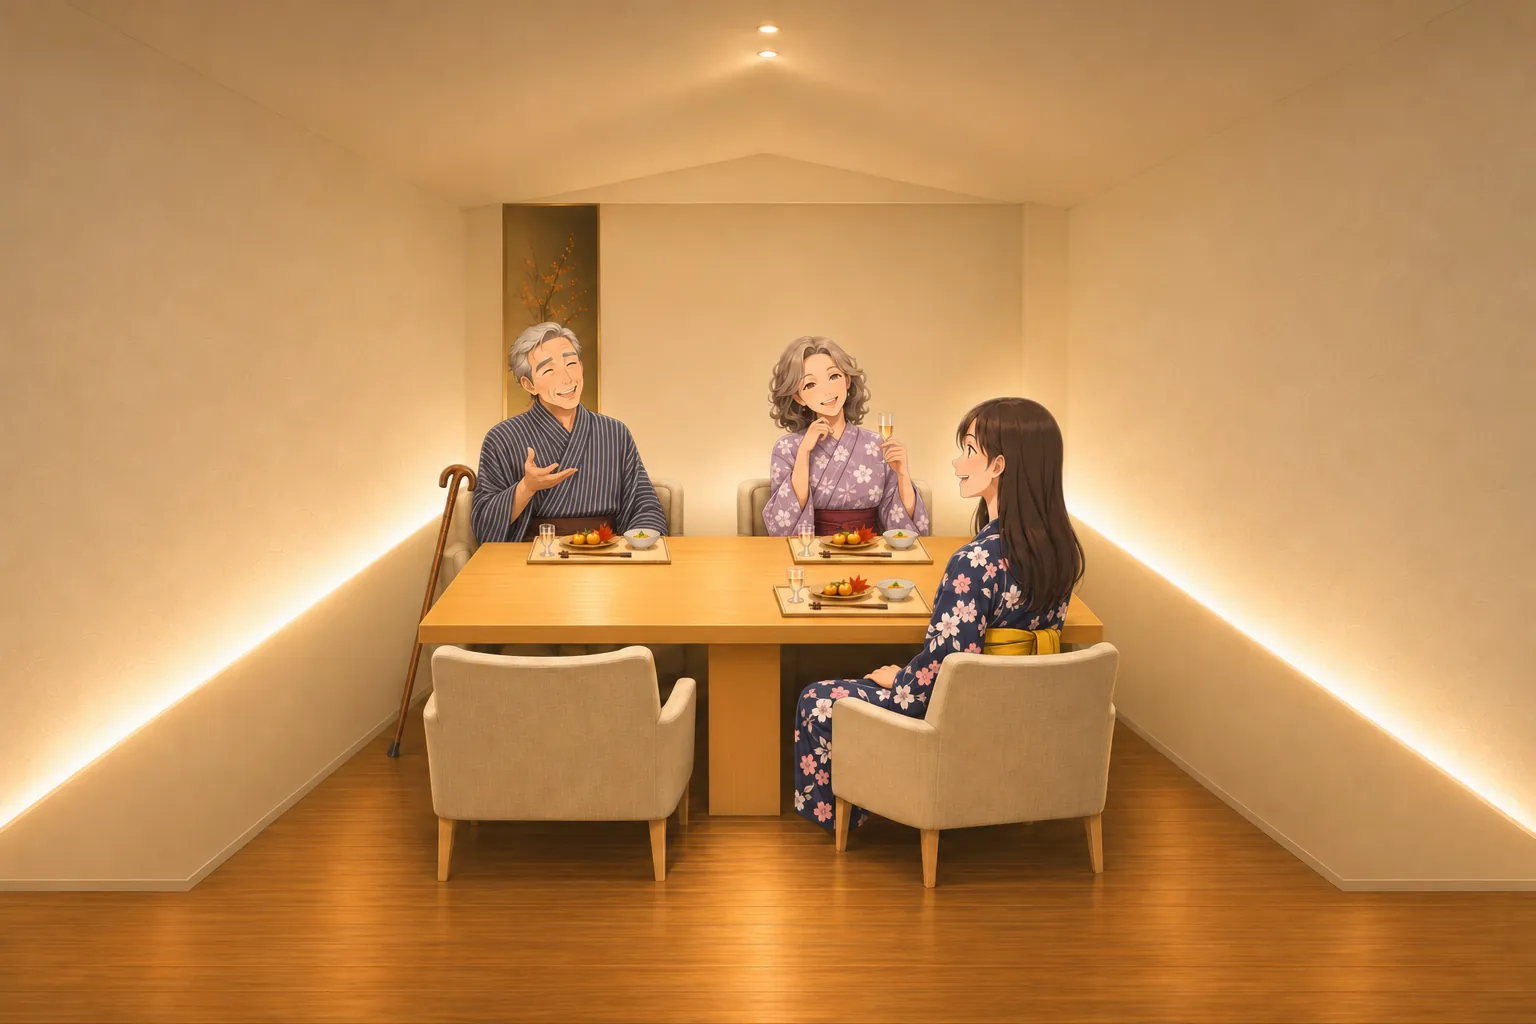
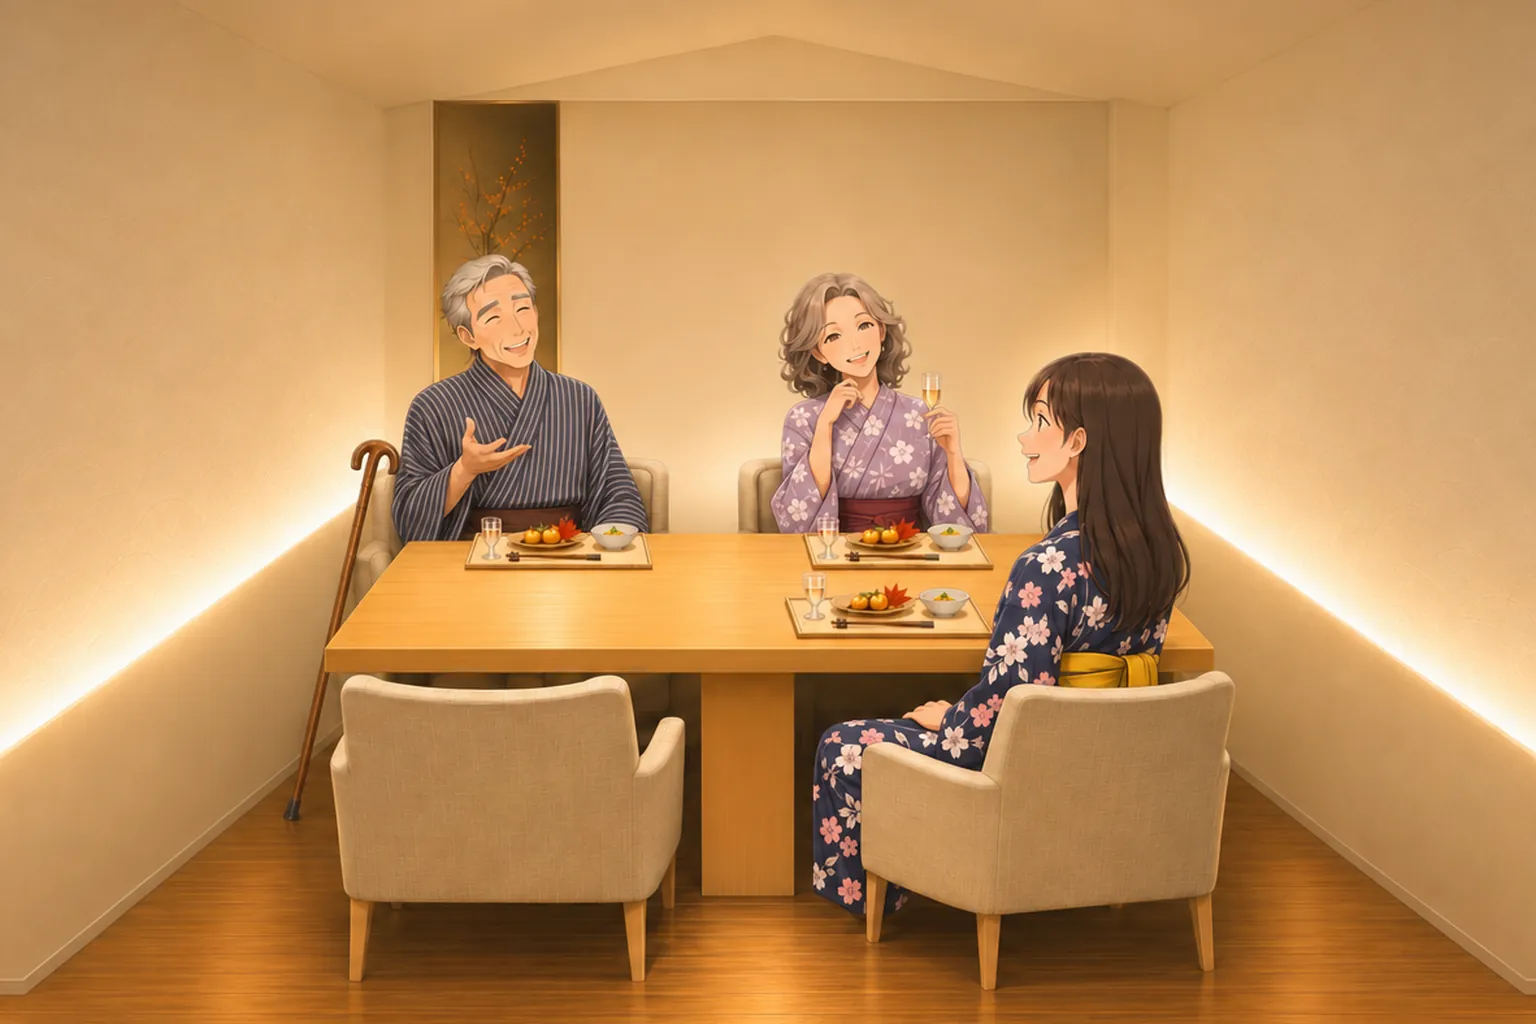
夕食の椅子席（PC）を寄せて切り出し、写真のまばたきをやめる

diff --git a/index.html b/index.html
@@ -9,11 +9,11 @@
 <link rel="preconnect" href="https://fonts.googleapis.com">
 <link rel="preconnect" href="https://fonts.gstatic.com" crossorigin>
 <link rel="stylesheet" href="https://fonts.googleapis.com/css2?family=Shippori+Mincho:wght@500;600;700;800&family=Zen+Kaku+Gothic+New:wght@500;700&family=Zen+Kurenaido&display=swap">
-<link rel="stylesheet" href="css/ui.css?v=20261125">
-<link rel="stylesheet" href="css/game.css?v=20261125">
-<link rel="stylesheet" href="css/_title.css?v=20261125">
-<link rel="stylesheet" href="css/_result.css?v=20261125">
-<link rel="stylesheet" href="css/_photo.css?v=20261125">
+<link rel="stylesheet" href="css/ui.css?v=20261125b">
+<link rel="stylesheet" href="css/game.css?v=20261125b">
+<link rel="stylesheet" href="css/_title.css?v=20261125b">
+<link rel="stylesheet" href="css/_result.css?v=20261125b">
+<link rel="stylesheet" href="css/_photo.css?v=20261125b">
 <script type="importmap">{ "imports": { "three": "./vendor/three.module.min.js" } }</script>
 </head>
 <body>
@@ -120,6 +120,6 @@
   <!-- ふり返り -->
   <section class="result" id="result" hidden></section>
 </div>
-<script type="module" src="js/main.js?v=20261125"></script>
+<script type="module" src="js/main.js?v=20261125b"></script>
 </body>
 </html>

diff --git a/js/assets.js b/js/assets.js
@@ -43,7 +43,7 @@ export const CHARA = {
 export const NOTICE = {
   lobby_family: { p: { u: 0.255, v: 0.525 }, w: { u: 0.372, v: 0.565 } },
   dinner: { p: { x: 36, y: 37, fx: 32, fy: 25.5 }, w: { x: 38.5, y: 36, fx: 33, fy: 24 }, short: { x: 36, y: 34, fx: 32, fy: 23 } },
-  dinner_chair: { p: { x: 27, y: 36.5, fx: 26, fy: 27 }, w: { x: 41.5, y: 40, fx: 37, fy: 29 }, short: { x: 30, y: 38, fx: 28, fy: 29 } },
+  dinner_chair: { p: { x: 27, y: 36.5, fx: 26, fy: 27 }, w: { u: 0.396, v: 0.359 }, short: { x: 30, y: 38, fx: 28, fy: 29 } },   // 横長は寄せて切り出した絵の中の場所
 };
 // 印をタップしたときに出るひとこと
 export const NOTICE_TEXT = { knee: 'ひざが、つらそう……？', anniv: '「35年ぶり」……？' };

diff --git a/js/logic.js b/js/logic.js
@@ -606,11 +606,7 @@ export function createGame({ config = CONFIG, random = Math.random, on = {} } = 
   function stepPhoto(dt) {
     const p = g.photo, c = config.photo;
     p.t += dt;
-    if (p.blinking) { p.blinkLeft -= dt; if (p.blinkLeft <= 0) p.blinking = false; }
-    else if (p.t >= p.nextBlink) {
-      p.blinking = true; p.blinkLeft = c.blinkLen;
-      p.nextBlink = p.t + c.blinkEvery[0] + random() * (c.blinkEvery[1] - c.blinkEvery[0]);
-    }
+    // まばたきはやめた（一瞬すぎて表情の違いが分からず、「目をつぶっていた」と言われても納得しにくいため）
   }
 
   return g;
